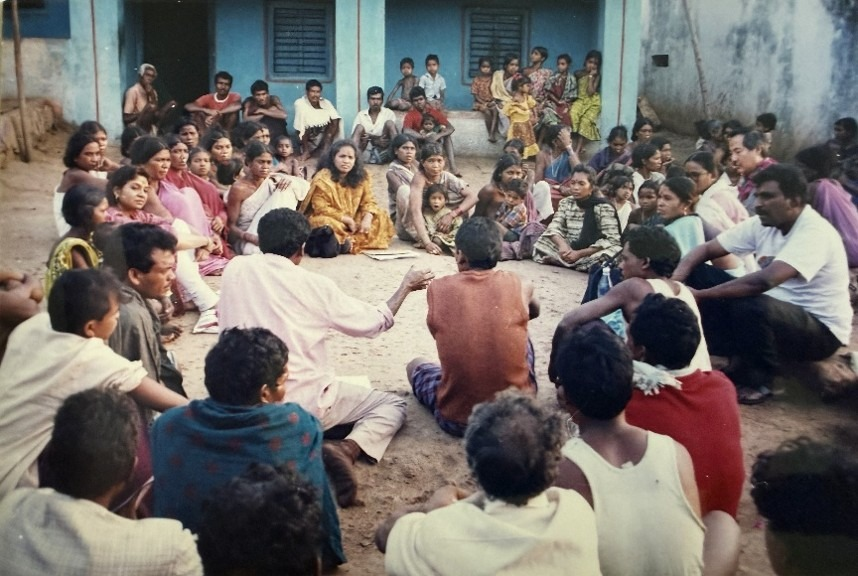
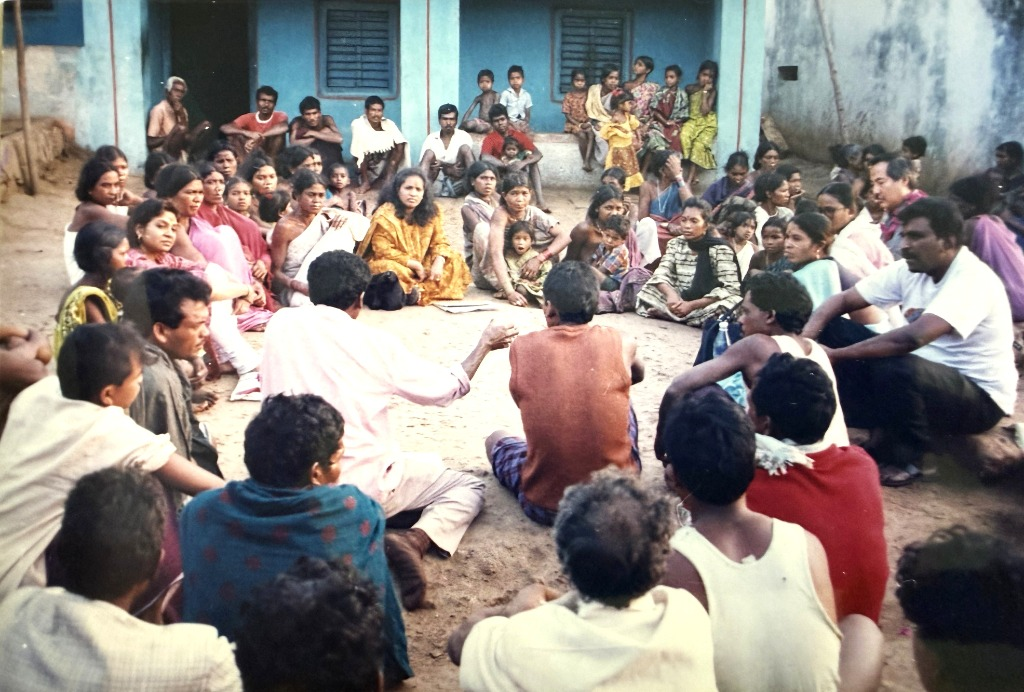
feat: implement tabbed About component with career and biography sections

diff --git a/components/About/About.tsx b/components/About/About.tsx
@@ -249,11 +249,11 @@ export default function About() {
                   },
                   {
                     period: '1982 – 1986',
-                    role: 'Lecturer',
+                    role: 'Part Time Lecturer',
                     dept: '',
-                    institution: 'Mahatma Gandhi Memorial College, Udupi, Karnataka, India',
+                    institution: "Mahatma Gandhi Memorial College, Udupi Law College, Udupi and St. Mary's Syrian College, Brahmavar, Karnataka",
                     current: false,
-                    detail: 'Lecturer at Mahatma Gandhi Memorial College, Udupi, Karnataka, India',
+                    detail: "Part Time Lecturer at Mahatma Gandhi Memorial College, Udupi Law College, Udupi and St. Mary's Syrian College, Brahmavar, Karnataka.",
                   },
                 ].map((pos, i, arr) => (
                   <div key={i} className={`${styles.timelineItem} ${pos.current ? styles.timelineCurrent : ''}`}>
@@ -421,15 +421,15 @@ export default function About() {
                 <div className={styles.chartingImages}>
                   <div className={styles.chartingImageFigure}>
                     <div className={styles.chartingImageWrap}>
-                      <Image src="/community-1.jpg" alt="Community Engagement in Semiliguda Tehsil, Odisha State" width={400} height={300} className={styles.chartingImage} />
+                      <Image src="/community-1.jpg" alt="Community Engagement in Semiliguda Tehsil, Odisha State, India" width={400} height={300} className={styles.chartingImage} />
                     </div>
-                    <p className={styles.chartingImageCaption}>Community Engagement, Semiliguda Tehsil, in Odisha State.</p>
+                    <p className={styles.chartingImageCaption}>Community Engagement, Semiliguda Tehsil, in Odisha State, India.</p>
                   </div>
                   <div className={styles.chartingImageFigure}>
                     <div className={styles.chartingImageWrap}>
-                      <Image src="/matrix-energy-resource-mapping-odisha.jpg" alt="Matrix of Energy resource mapping at Koraput district, Odisha State" width={400} height={300} className={styles.chartingImage} />
+                      <Image src="/matrix-energy-resource-mapping-odisha.jpg" alt="Matrix of Energy resource mapping at Koraput district, Odisha State, India" width={400} height={300} className={styles.chartingImage} />
                     </div>
-                    <p className={styles.chartingImageCaption}>Matrix of Energy resource mapping at Koraput district, Odisha State</p>
+                    <p className={styles.chartingImageCaption}>Matrix of Energy resource mapping at Koraput district, Odisha State, India</p>
                   </div>
                 </div>
               </div>
@@ -441,13 +441,13 @@ export default function About() {
               <h3 className={styles.galleryTitle}>Fieldwork Archives</h3>
               <div className={styles.galleryGrid}>
                 {[
-                  { src: '/field-work-meghalaya-state.jpg', title: 'Field work - Meghalaya State, Northeastern India' },
-                  { src: '/field-site-meghalaya.jpeg', title: 'Field site - Meghalaya, Northeast India' },
-                  { src: '/field-work-meghalaya-2.jpeg', title: 'Field work - Meghalaya state, India' },
-                  { src: '/very-young-headloader-meghalaya-state.jpg', title: 'A very young headloader - Meghalaya State, Northeastern India' },
-                  { src: '/field-work-odisha-state-2.jpg', title: 'Field work - Odisha state, India' },
-                  { src: '/field-work-odisha-3.jpeg', title: 'Field work in Odisha state, India' },
-                  { src: '/village-visit-odisha.jpeg', title: 'Village visit - Odisha India' },
+                  { src: '/field-work-meghalaya-state.jpg', title: 'Field Work: Meghalaya State, Northeast India' },
+                  { src: '/field-site-meghalaya.jpeg', title: 'Field Work: Meghalaya State, Northeast India' },
+                  { src: '/field-work-meghalaya-2.jpeg', title: 'Field Work: Meghalaya State, Northeast India' },
+                  { src: '/very-young-headloader-meghalaya-state.jpg', title: 'Field Work: Meghalaya State, Northeast India' },
+                  { src: '/field-work-odisha-state-2.jpg', title: 'Field Work: Odisha State, India' },
+                  { src: '/field-work-odisha-3.jpeg', title: 'Field Work: Odisha State, India' },
+                  { src: '/village-visit-odisha.jpeg', title: 'Field Work: Odisha State, India' },
                   { src: '/urmul-trust-1.jpeg', title: 'Workshop on participatory development, URMUL Trust, Western Rajasthan, India' },
                   { src: '/urmul-trust-2.jpeg', title: 'Workshop on participatory development, URMUL Trust, Western Rajasthan, India' },
                   { src: '/urmul-trust-3.jpeg', title: 'Workshop on participatory development, URMUL Trust, Western Rajasthan, India' },
